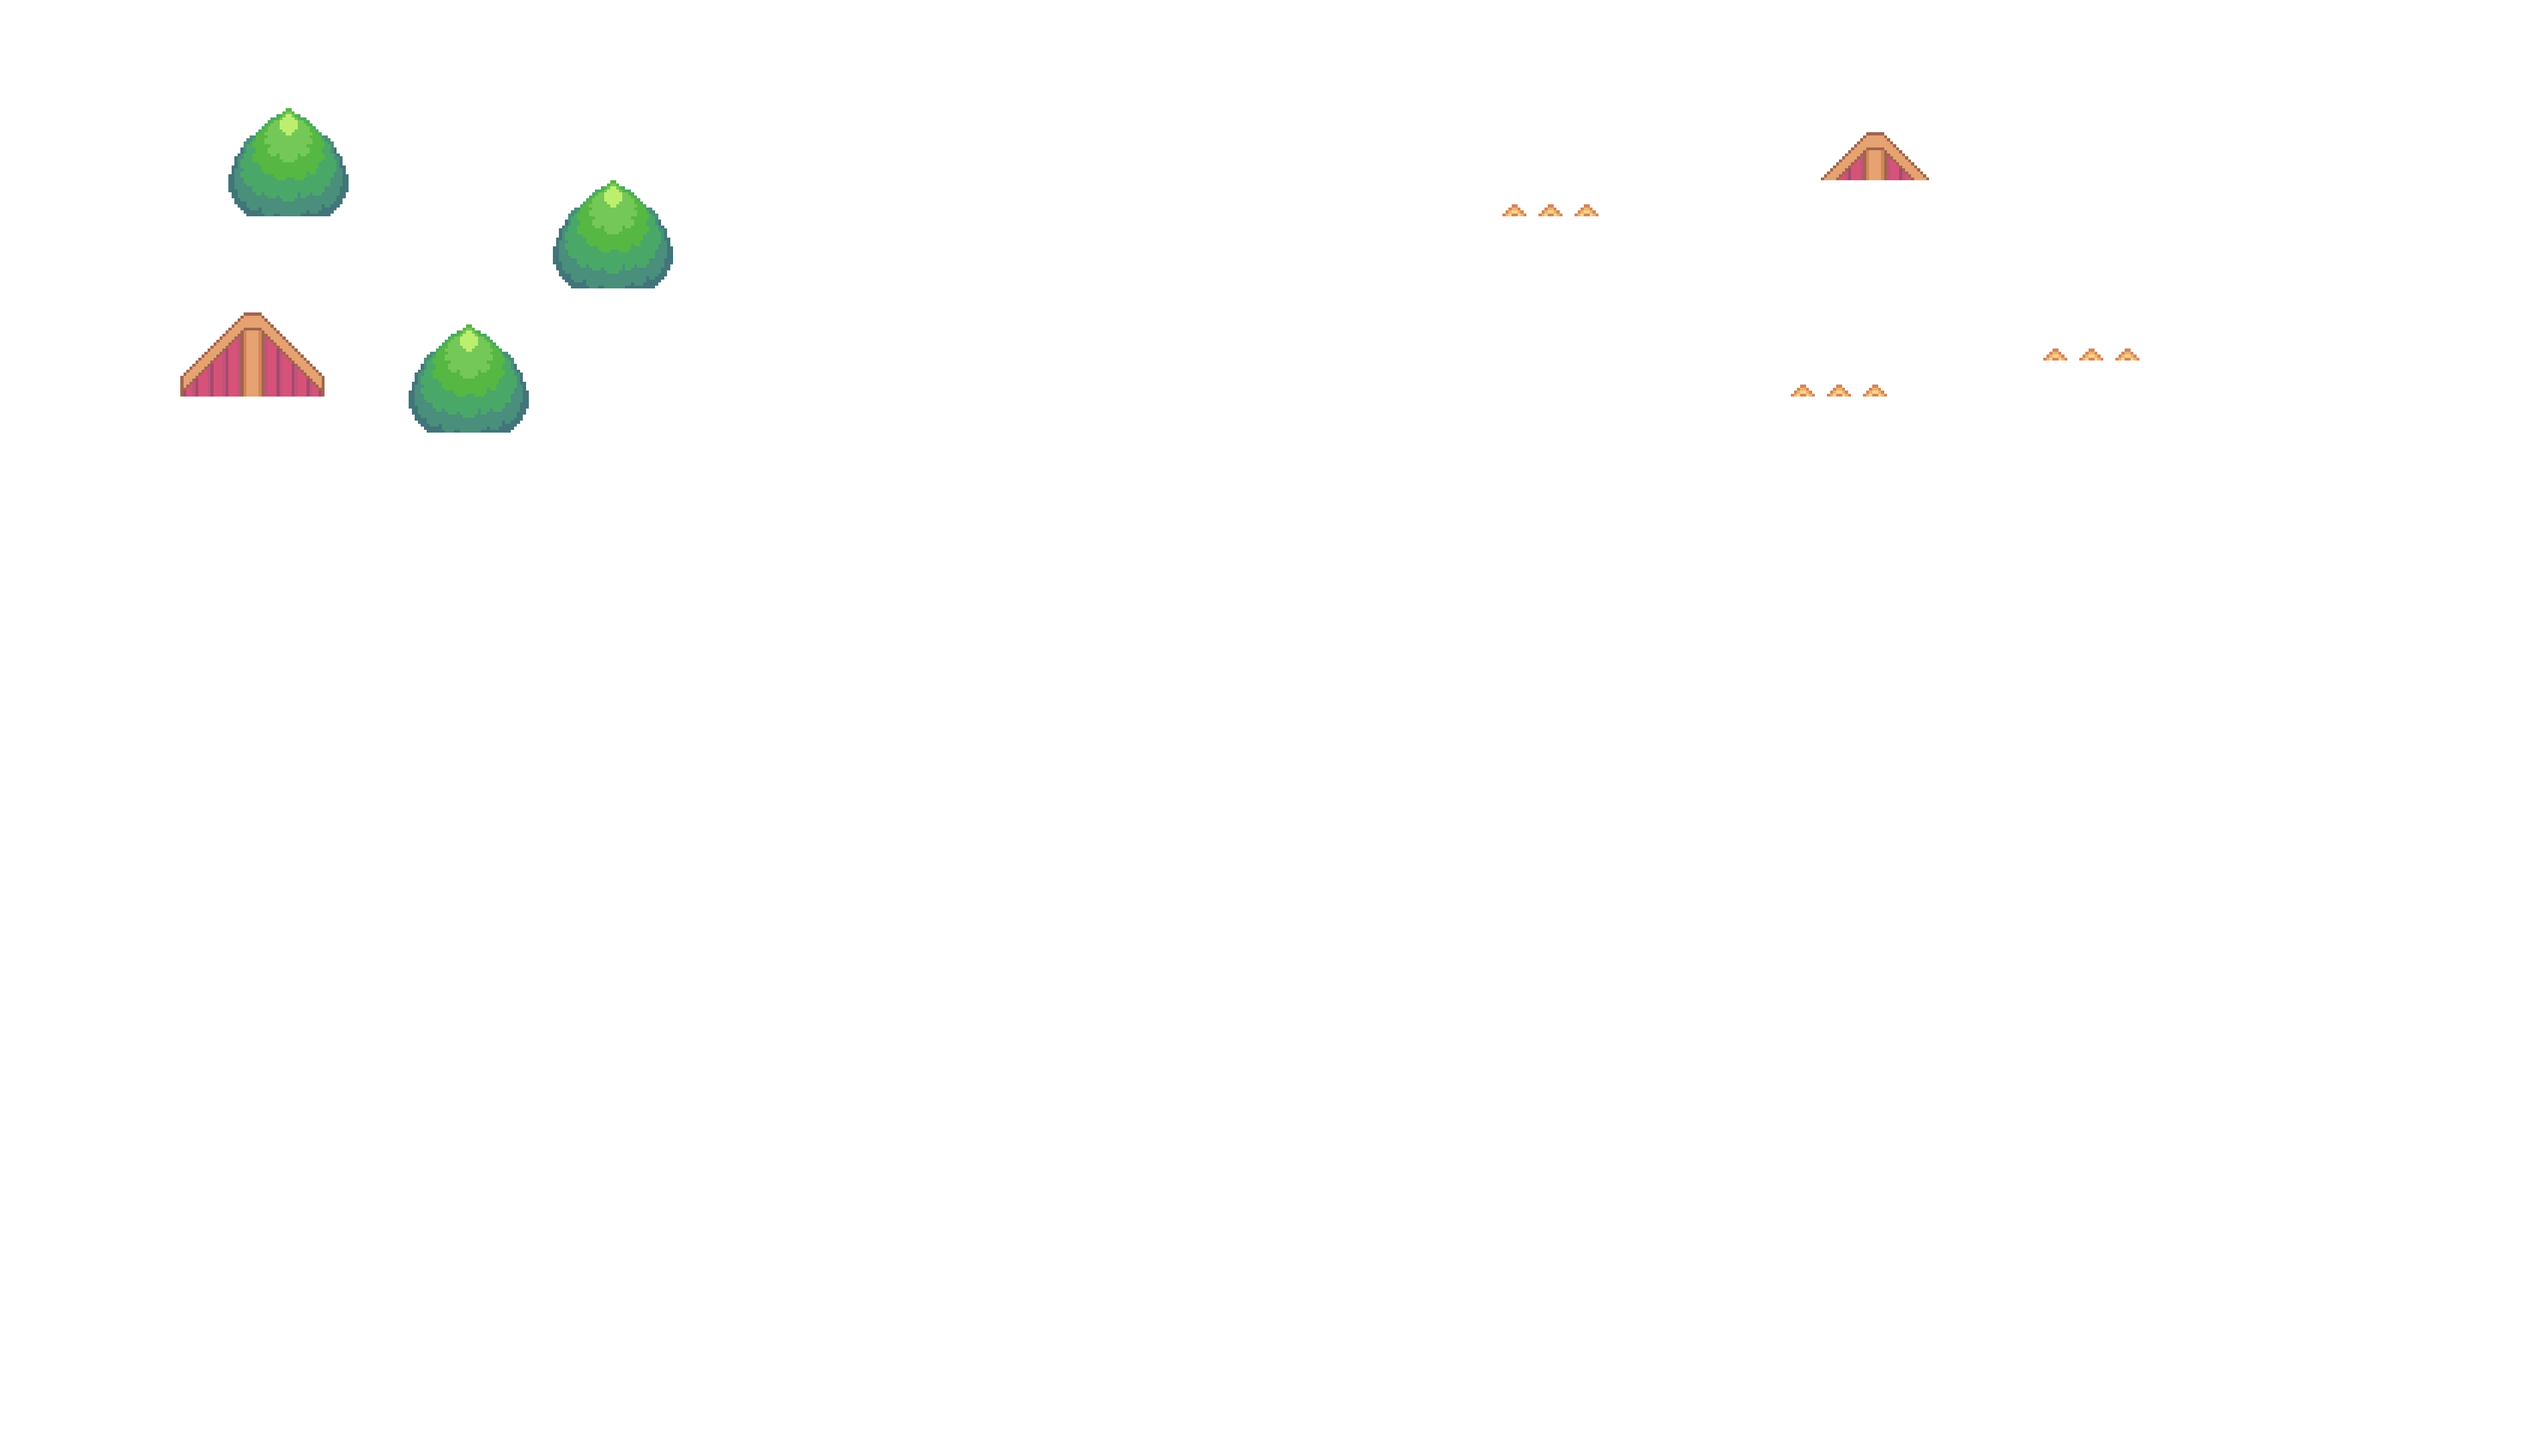
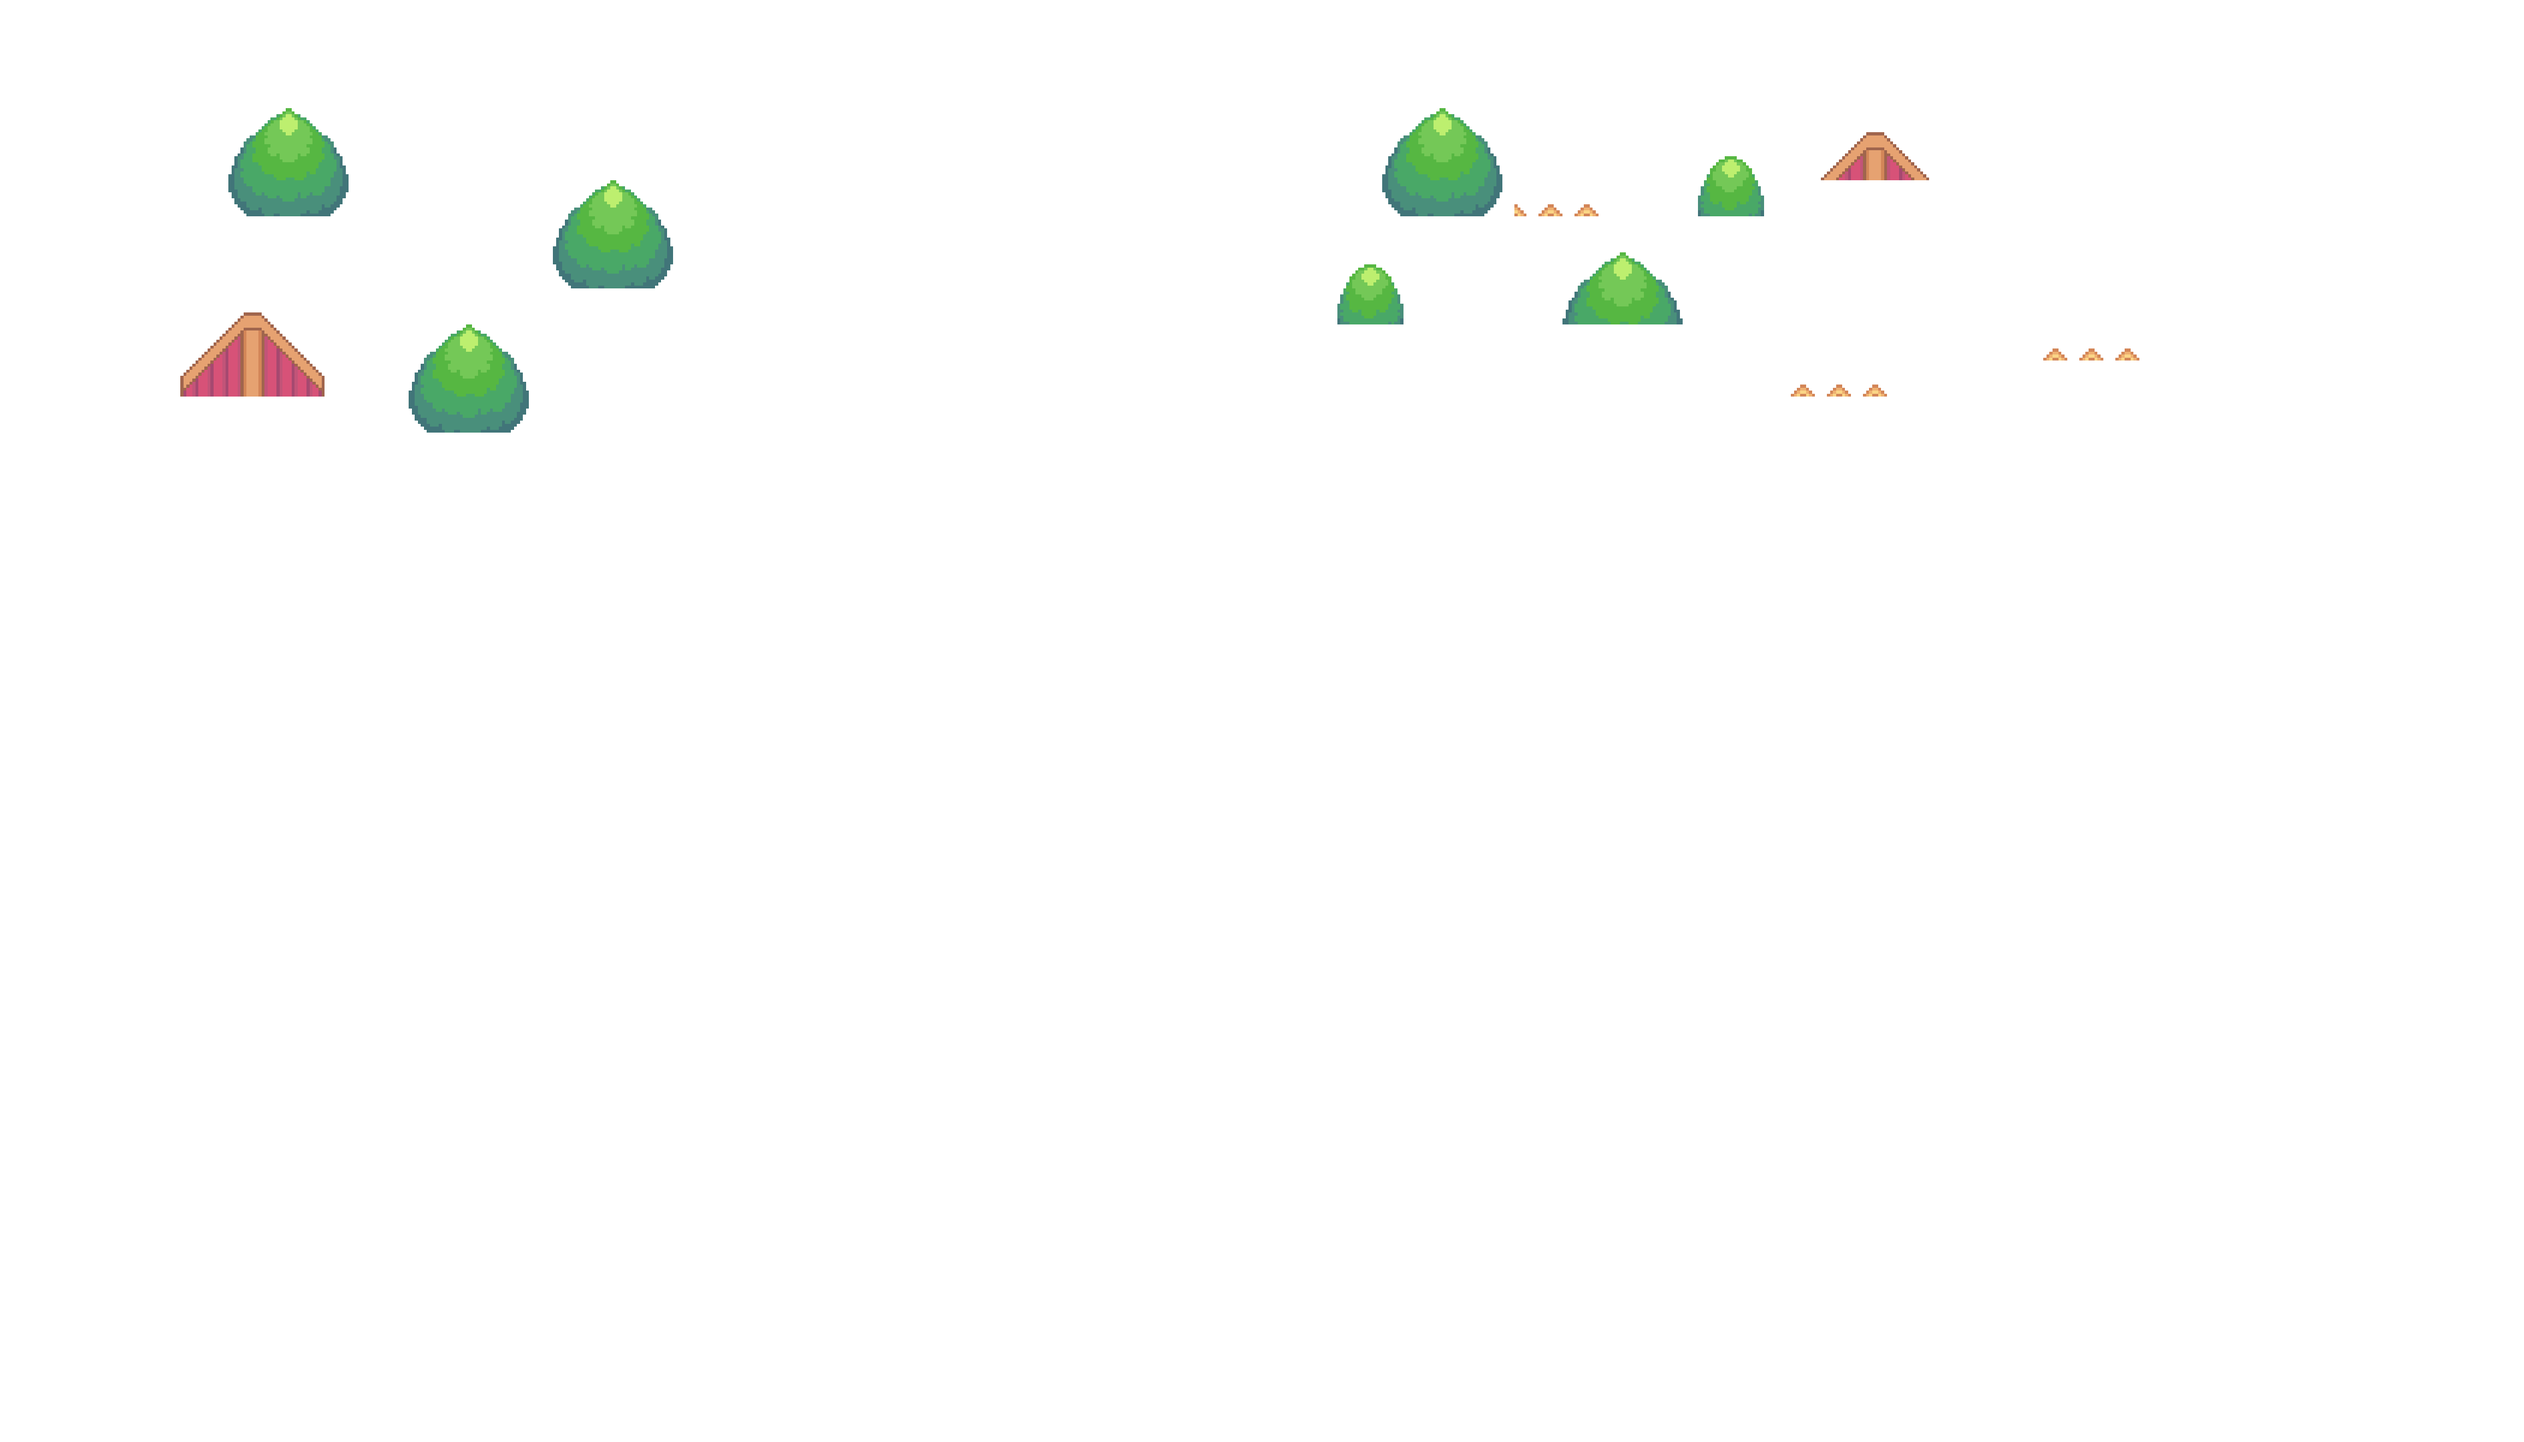
handle foreground

diff --git a/src/scripts/Instance.ts b/src/scripts/Instance.ts
@@ -25,6 +25,6 @@ const collisionsArray: number[][] = toMultiDimensionArray(
 const foreground = new Sprite({ ...foregroundInfos });
 const boundaries: Boundary[] = toBoundaryArray(collisionsArray, 1025);
 
-const movables = [board, ...boundaries, foreground];
+const movables = [board, foreground, ...boundaries];
 
 export { movables, player, inputHandler, boundaries };

diff --git a/src/scripts/data/objects.ts b/src/scripts/data/objects.ts
@@ -26,7 +26,7 @@ export const boardInfos = {
   },
 };
 export const foregroundInfos = {
-  src: "../assets/images/Foreground.png",
+  src: "../../assets/images/Foreground.png",
   position: {
     ...offsetMap,
   },

diff --git a/src/scripts/classes/GameManager.ts b/src/scripts/classes/GameManager.ts
@@ -12,7 +12,6 @@ export default class GameManager {
     for (const movable of movables) {
       movable.draw();
     }
-
     player.draw();
   }
 }
